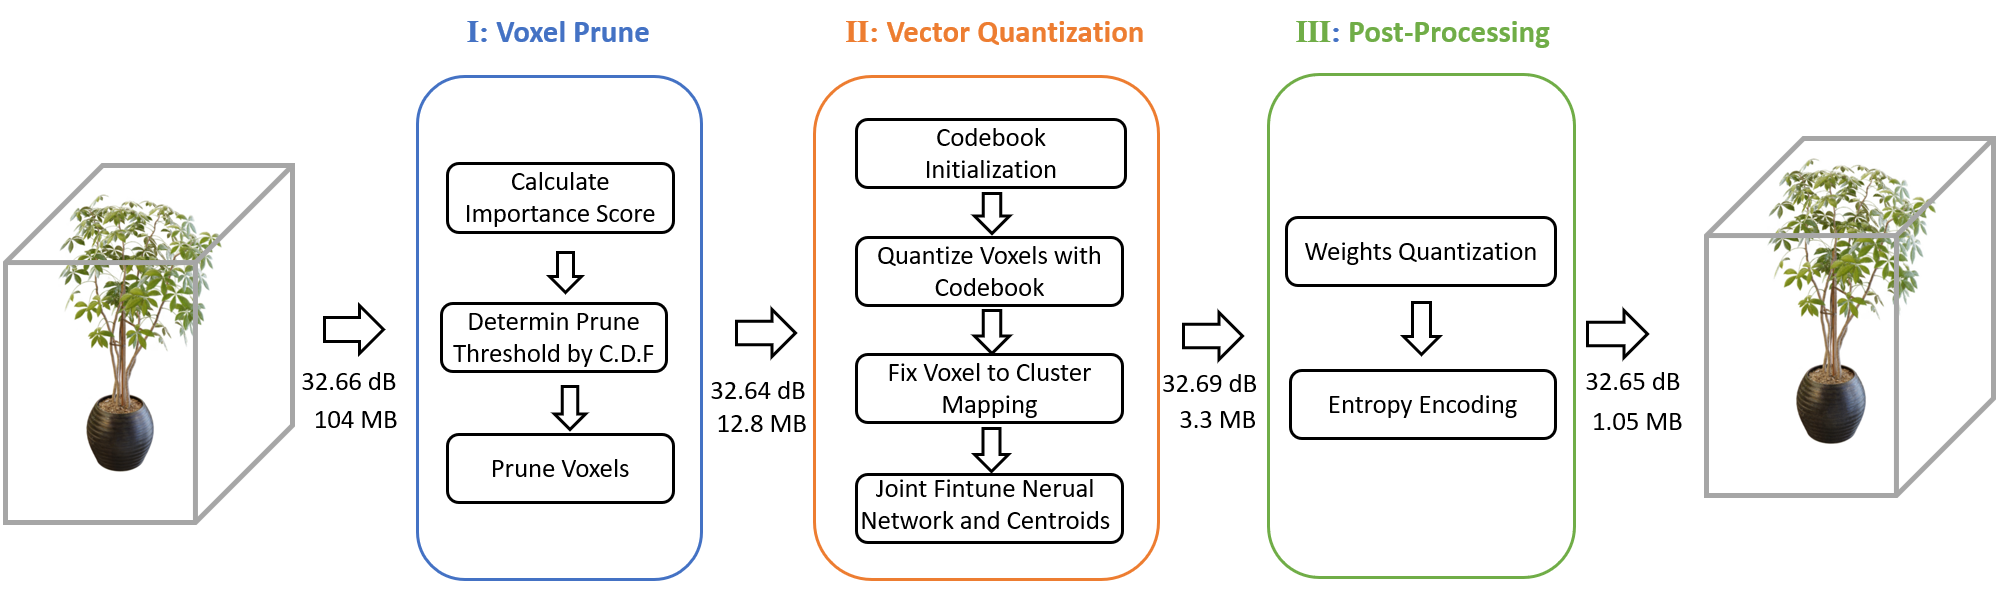
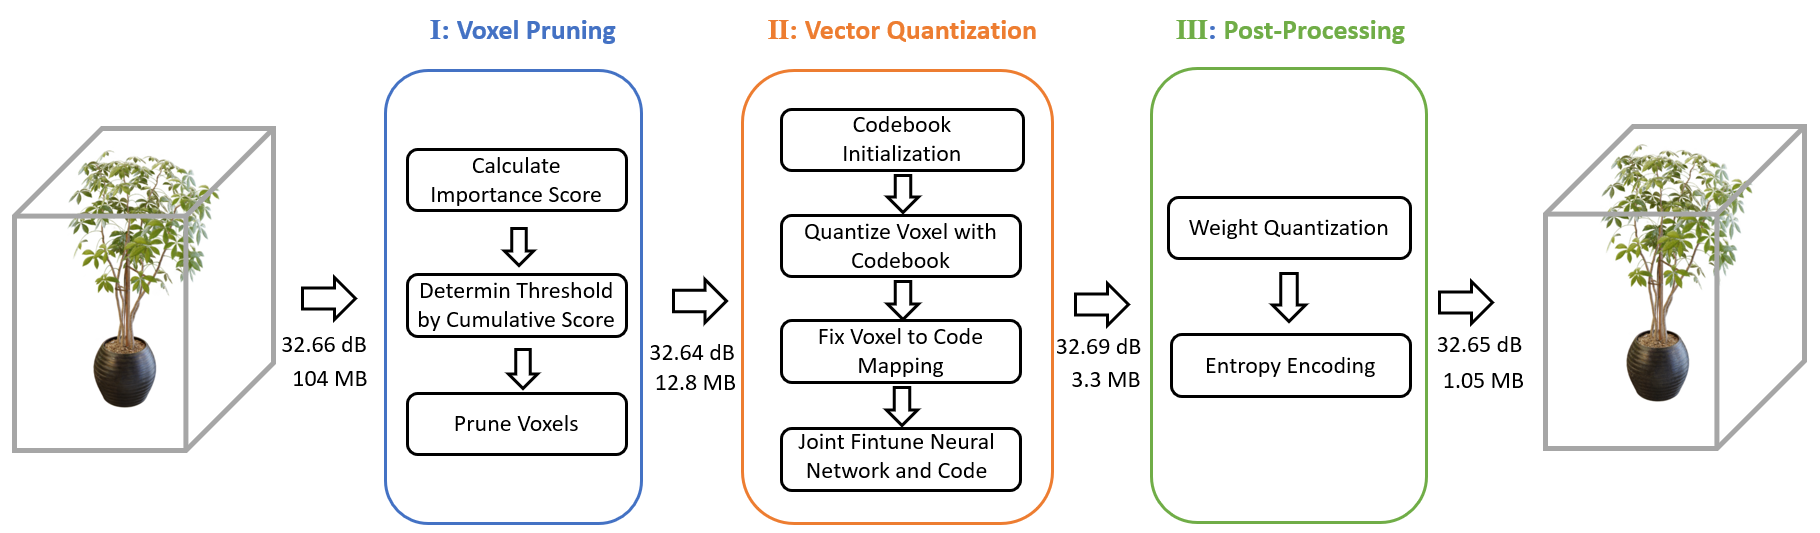
add more code comments and fix pipeline image.

diff --git a/run_final.py b/run_final.py
@@ -646,7 +646,7 @@ def vq_finetune(args, cfg, cfg_model, cfg_train, xyz_min, xyz_max, data_dict, st
     
 
     
-    #===================importance init ====================
+    #=================== Initialize importance score  ====================
     testsavedir = os.path.join(cfg.basedir, cfg.expname)
     stepsize = cfg.fine_model_and_render.stepsize
     render_viewpoints_kwargs = {
@@ -671,14 +671,13 @@ def vq_finetune(args, cfg, cfg_model, cfg_train, xyz_min, xyz_max, data_dict, st
         savedir=importance_savedir,
         **render_viewpoints_kwargs)
 
-   
+    #=================== Codebook initialization  ====================
     high = None
     model.eval()
     model.vq.train()
     VQ_CHUNK = 80000
     with torch.no_grad():
-        model.init_cdf_mask(args.importance_prune, args.importance_include)
-        # import ipdb; ipdb.set_trace()
+        model.init_cdf_mask(args.importance_prune, args.importance_include) # voxel prune  
         vq_mask = torch.logical_xor(model.non_prune_mask,  model.keep_mask)
         if vq_mask.any():
             k0_needs_vq = model.k0.grid.clone().reshape(model.k0_dim, -1).T[vq_mask]
@@ -693,21 +692,21 @@ def vq_finetune(args, cfg, cfg_model, cfg_train, xyz_min, xyz_max, data_dict, st
                 model.vq(vq_feature.unsqueeze(0), weight=vq_weight.reshape(1,-1,1))
                 replace_val, replace_index = torch.topk(model.vq._codebook.cluster_size, k=k, largest=False)
                 _, most_important_index = torch.topk(vq_weight, k=k, largest=True)
-                
-                print(replace_val.mean())
                 model.vq._codebook.embed[:,replace_index,:] = vq_feature[most_important_index,:]
+
+    #=================== Appply voxel pruning and vector quanzation  ====================
     all_indices = model.fully_vq_reformat(args.importance_prune, args.importance_include)
+   
+
+    
+    #=================== Joint finetune VQ-DVGO   ====================
     model.train()
     model.vq.eval()
-    from itertools import chain
-    
-    
-
-    ckpt = torch.load(load_ckpt_path)
+    ckpt = torch.load(load_ckpt_path) 
     optimizer = utils.create_optimizer_or_freeze_model(model, cfg_train, global_step=0)
     optimizer.load_state_dict(ckpt['optimizer_state_dict'])
    
-
+    # reset initial learning rate
     for i_opt_g, param_group in enumerate(optimizer.param_groups):
         param_group['lr'] = param_group['lr'] * 5
     for global_step in trange(1, 10000):
@@ -734,12 +733,11 @@ def vq_finetune(args, cfg, cfg_model, cfg_train, xyz_min, xyz_max, data_dict, st
             rays_o = rays_o.to(device)
             rays_d = rays_d.to(device)
             viewdirs = viewdirs.to(device)
-        use_vq_flag = False
-        
+
         assert model.importance is not None
         render_result = model(
             rays_o, rays_d, viewdirs,
-            global_step=global_step, target=target, is_train=True, use_vq_flag=use_vq_flag, include_thres=high,
+            global_step=global_step, target=target, is_train=True, use_vq_flag=False, include_thres=high,
             **render_kwargs)
 
         # gradient descent step
@@ -780,10 +778,9 @@ def vq_finetune(args, cfg, cfg_model, cfg_train, xyz_min, xyz_max, data_dict, st
                     cfg_train.weight_tv_k0/len(rays_o), global_step<cfg_train.tv_dense_before)
         
         
-       
-
         optimizer.step()
 
+        # synchornize codebook for every 10 iterations  
         if global_step%10 == 0:
             with torch.no_grad():
                 gather_grid = torch.zeros(all_indices.max(), model.k0_dim).to(device) 
@@ -1041,9 +1038,6 @@ if __name__=='__main__':
         saving_path = os.path.join(os.path.dirname(ckpt_path_fine),'fine_model.pth')
         torch.save(saving_dict, saving_path)
         os.system(f"zip {saving_path+'.zip'} {saving_path}")
-        # print("================================ test in half =======================================")
-        # model_vq.k0.grid.half().float()
-        # model_vq.density.grid.half().float()
         model_vq.eval()
         model_vq.importance = torch.load( os.path.join(cfg.basedir, cfg.expname, 'importance.pth'))
         model_vq.fully_vq_reformat(args.importance_prune, args.importance_include, 
@@ -1051,50 +1045,8 @@ if __name__=='__main__':
 
         model_vq.mask_cache.mask[:] = True
         model_vq.update_occupancy_cache()
-        # import ipdb;ipdb.set_trace()
 
            
-
-    # # load vq model for rendring
-    # if args.render_test or args.render_train or args.render_video:
-    #     if args.ft_path:
-    #         ckpt_path = args.ft_path
-    #     else:
-    #         ckpt_path = os.path.join(cfg.basedir, cfg.expname, 'vq_last.tar')
-    #     ckpt_name = ckpt_path.split('/')[-1][:-4]
-    #     if cfg.data.ndc:
-    #         model_class = dmpigo.DirectMPIGO
-    #     elif cfg.data.unbounded_inward:
-    #         model_class = dcvgo.DirectContractedVoxGO
-    #     else:
-    #         model_class = dvgo.DirectVoxGO
-    #     model = utils.load_model(model_class, ckpt_path).to(device)
-    #     print("================================ test in half =======================================")
-    #     model.k0.grid.half().float()
-    #     model.density.grid.half().float()
-
-
-    #     stepsize = cfg.fine_model_and_render.stepsize
-    #     render_viewpoints_kwargs = {
-    #         'model': model,
-    #         'ndc': cfg.data.ndc,
-    #         'render_kwargs': {
-    #             'near': data_dict['near'],
-    #             'far': data_dict['far'],
-    #             'bg': 1 if cfg.data.white_bkgd else 0,
-    #             'stepsize': stepsize,
-    #             'inverse_y': cfg.data.inverse_y,
-    #             'flip_x': cfg.data.flip_x,
-    #             'flip_y': cfg.data.flip_y,
-    #             'render_depth': True,
-    #         },
-    #     }
-
-    #     model.eval()
-    
-
- 
-    
     
    
     # render trainset and eval

diff --git a/lib/dvgo.py b/lib/dvgo.py
@@ -587,14 +587,8 @@ class DirectVoxGO(torch.nn.Module):
             metadata['model_state_dict']['density.xyz_max'] = model_state_dict['density.xyz_max']
             metadata['model_state_dict']['k0.xyz_min'] = model_state_dict['k0.xyz_min']
             metadata['model_state_dict']['k0.xyz_max'] = model_state_dict['k0.xyz_max']
-            # for k, v in model_state_dict.items():
-            #     if k.startswith('rgbnet')
-
-            # for k,v in saving_dict.items():
             np.savez_compressed(f'{save_path}/{save_name}.npz', **saving_dict)
             np.savez_compressed(f'{save_path}/{save_name}_metadata.npz', metadata=metadata)
-            # os.system(f"zip -r {save_path}{save_name}.zip {save_path}/{save_name} ")
-            # os.system(f"zip -r -0 {save_path}{save_name}_0.zip {save_path}/{save_name} ")
 
     @torch.no_grad()
     def calc_vector_quantized_feature(self):
@@ -651,8 +645,8 @@ class DirectVoxGO(torch.nn.Module):
        
         
        
-        # for ease of implementation we save also save a index for non-vq-voxels,
-        # note that these part of index will not be saved
+        # To ease the implementation of codebook finetuneing, we add indexs of non-vq-voxels to all_indice.
+        # note that these part of indexs will not be saved
         all_indice[self.keep_mask] = torch.arange(self.keep_mask.sum())+ self.used_kwargs["codebook_size"]
         
             
@@ -661,7 +655,6 @@ class DirectVoxGO(torch.nn.Module):
             import math
             from copy import deepcopy
             os.makedirs(f'{save_path}/extreme_saving', exist_ok=True)
-            # import ipdb;ipdb.set_trace()
             np.savez_compressed(f'{save_path}/extreme_saving/non_prune_density.npz',non_prune_density.int_repr().cpu().numpy())
             np.savez_compressed(f'{save_path}/extreme_saving/non_vq_grid.npz',non_vq_grid.int_repr().cpu().numpy())
             np.savez_compressed(f'{save_path}/extreme_saving/non_prune_mask.npz',np.packbits(self.non_prune_mask.reshape(-1).cpu().numpy()))
@@ -671,11 +664,15 @@ class DirectVoxGO(torch.nn.Module):
                 mask = 2 ** torch.arange(bits - 1, -1, -1).to(x.device, x.dtype)
                 return x.unsqueeze(-1).bitwise_and(mask).ne(0).float()
             
+            # vq indice was saved in according to the bit length
             bin_indices = dec2bin(all_indice[torch.logical_xor(self.non_prune_mask,self.keep_mask)], int(math.log2(self.used_kwargs["codebook_size"]))).bool().cpu().numpy()
-            codebook = self.vq._codebook.embed.cpu().half().numpy()
             np.savez_compressed(f'{save_path}/extreme_saving/vq_indexs.npz',np.packbits(bin_indices.reshape(-1)))
+            
+            codebook = self.vq._codebook.embed.cpu().half().numpy()
             np.savez_compressed(f'{save_path}/extreme_saving/codebook.npz',codebook)
             np.savez_compressed(f'{save_path}/extreme_saving/rgbnet.npz',deepcopy(self.rgbnet).half().cpu().state_dict())
+
+            # we also save necessary metadata 
             metadata = dict()
             metadata['global_step'] =20000
             metadata['world_size'] = self.world_size
@@ -697,6 +694,8 @@ class DirectVoxGO(torch.nn.Module):
             metadata['model_state_dict']['k0.xyz_min'] = model_state_dict['k0.xyz_min']
             metadata['model_state_dict']['k0.xyz_max'] = model_state_dict['k0.xyz_max']
             np.savez_compressed(f'{save_path}/extreme_saving/metadata.npz', metadata=metadata)
+
+            # zip everything together to get final size
             os.system(f"zip -r {save_path}/extreme_saving.zip {save_path}/extreme_saving ")
 
         new_k0_grid = new_k0_grid.T.reshape(*self.k0.grid.shape).contiguous()

diff --git a/run_load_compressed.py b/run_load_compressed.py
@@ -319,7 +319,7 @@ def load_vqdvgo(path, device='cuda'):
     def load_f(name, allow_pickle=False,array_name='arr_0'):
         return np.load(os.path.join(path,name),allow_pickle=allow_pickle)[array_name]
 
-    metadata =load_f('metadata.npz',allow_pickle=True,array_name='metadata')
+    metadata = load_f('metadata.npz',allow_pickle=True,array_name='metadata')
     metadata = metadata.item()
 
     ## prepare needed model kwargs 
@@ -418,10 +418,8 @@ if __name__=='__main__':
     model.load_state_dict(mdoel_state_dict, strict=False)
     
     model.to(device)
-    # model.mask_cache.mask &= (model.density.grid.squeeze(0).squeeze(0) != 0)
     model.mask_cache.mask[:] = True
     model.update_occupancy_cache()
-    # import ipdb;ipdb.set_trace()
 
 
     stepsize = cfg.fine_model_and_render.stepsize
@@ -439,10 +437,6 @@ if __name__=='__main__':
             'render_depth': True,
         },
     }
-
-    
-
-   
    
     # render trainset and eval
     if args.render_train:
